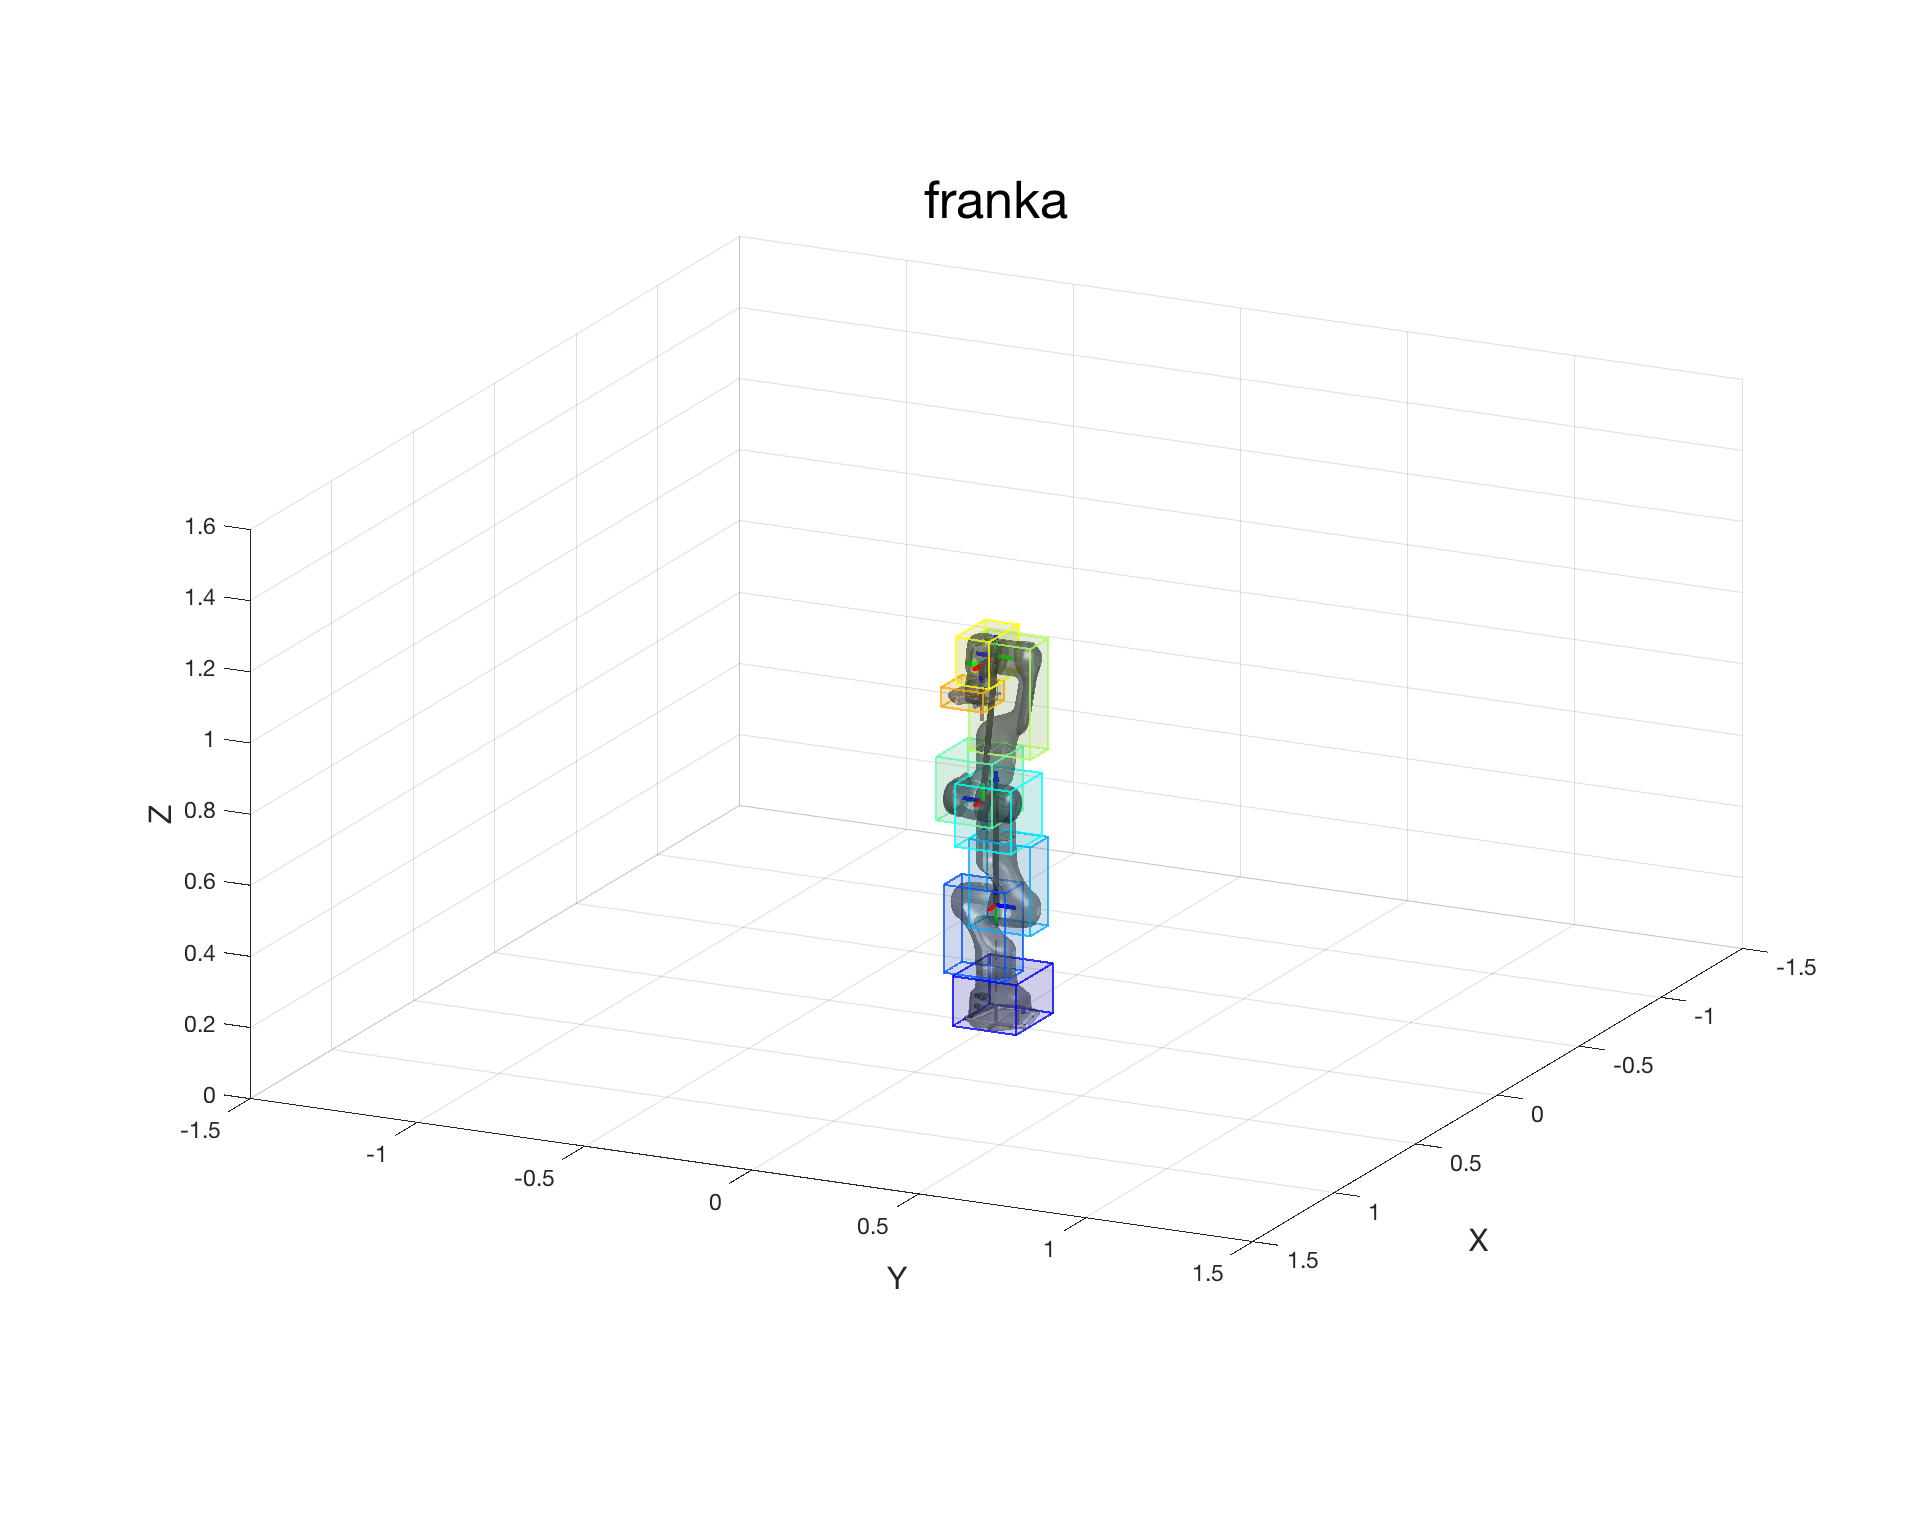
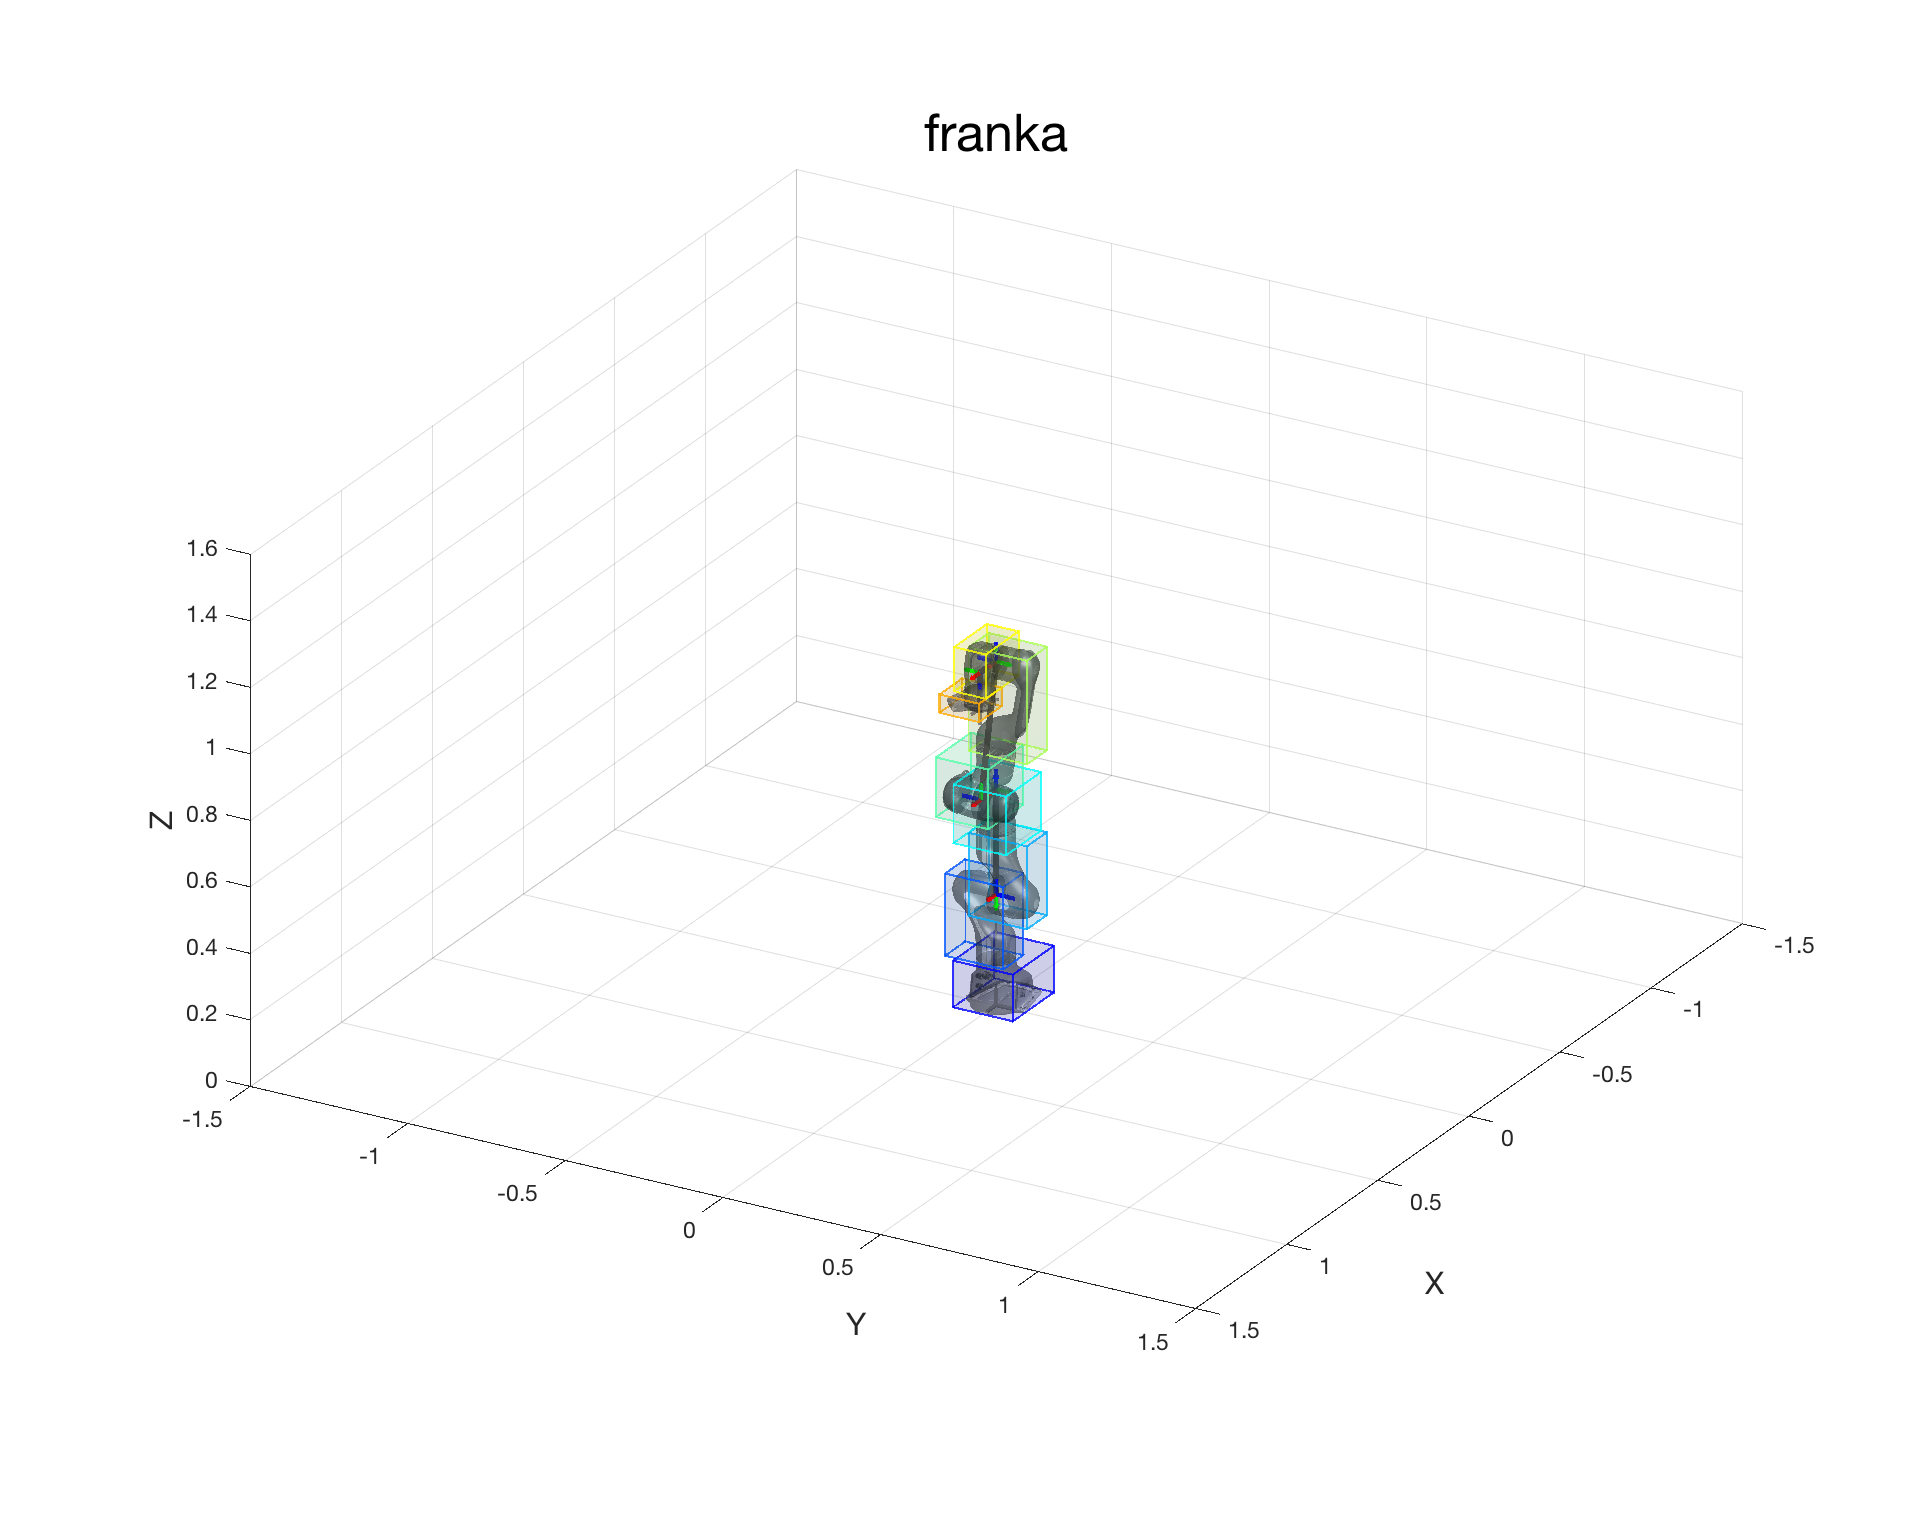
fig_simple added

diff --git a/code/demo_01_parse_urdf.m b/code/demo_01_parse_urdf.m
@@ -3,7 +3,7 @@ ccc
 ccc
 
 % Load the model
-model_name = 'franka'; % franka / sawyer
+model_name = 'sawyer'; % franka / sawyer
 urdf_path = sprintf('model/%s/%s_urdf.xml',model_name,model_name);
 base_name = 'world_fixed'; VERBOSE = true;
 model = parse_urdf(model_name,urdf_path,base_name,VERBOSE);
@@ -18,9 +18,9 @@ names2control = model.joint_names_revolute;
 positions2control_rad = zeros(1,length(names2control));
 model = set_positions_urdf(model,names2control,positions2control_rad,VERBOSE);
 
-% Plot the kinematic chain
+% Plot the kinematic chain with mesh
 opt = struct('fig_idx',2,'subfig_idx',1,...
-    'view_info',[116,17],'fig_size',[0.4,0.2,0.55,0.7],...
+    'view_info',[120,24],'fig_size',[0.4,0.2,0.55,0.7],...
     'ball_r',0.02,'coord_r',0.05,...
     'title_str',model_name,'title_fs',25,...
     'axis_info',[-1.5,+1.5,-1.5,+1.5,0.0,1.6],...
@@ -29,11 +29,25 @@ opt = struct('fig_idx',2,'subfig_idx',1,...
 fig_model = plot_model_urdf(model,opt);
 drawnow;
 
+% Plot the simple kinematic chain
+opt = struct('fig_idx',3,'subfig_idx',1,...
+    'view_info',[120,24],'fig_size',[0.4,0.1,0.55,0.7],...
+    'ball_r',0.1,'coord_r',0.1,...
+    'title_str',model_name,'title_fs',25,...
+    'axis_info',[-1.5,+1.5,-1.5,+1.5,0.0,1.6],...
+    'SHOW_TEXT',1,'PLOT_LINKS',1,'PLOT_JOINTS',1,'PLOT_COORDINATES',1, ...
+    'PLOT_ROTATIONAL_AXES',1,'PLOT_MESH',0,'PLOT_CUBE',0);
+fig_simple = plot_model_urdf(model,opt);
+drawnow;
+
+
 % Save figure
 png_name = sprintf('fig/fig_node_%s.png',model_name);
 save_fig2png(fig_node,png_name,VERBOSE);
 png_name = sprintf('fig/fig_model_%s.png',model_name);
 save_fig2png(fig_model,png_name,VERBOSE);
+png_name = sprintf('fig/fig_simple_%s.png',model_name);
+save_fig2png(fig_simple,png_name,VERBOSE);
 
 %% Plot random positions
 max_tick = 10;
